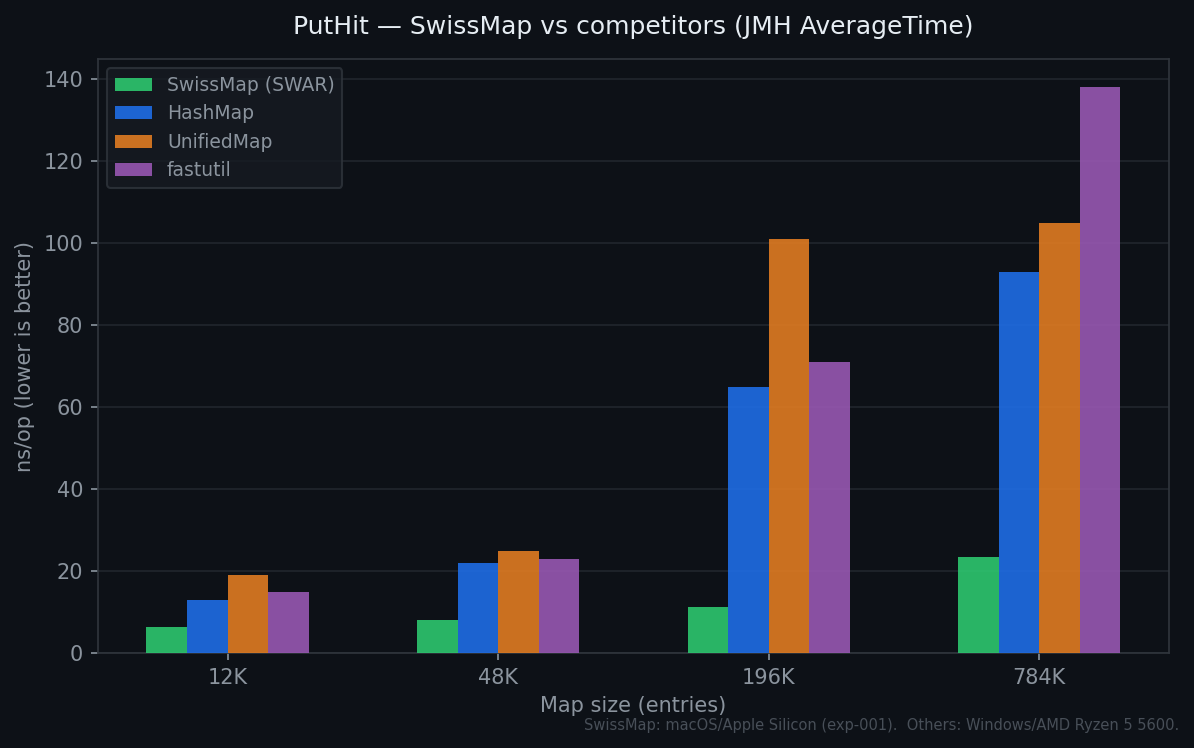
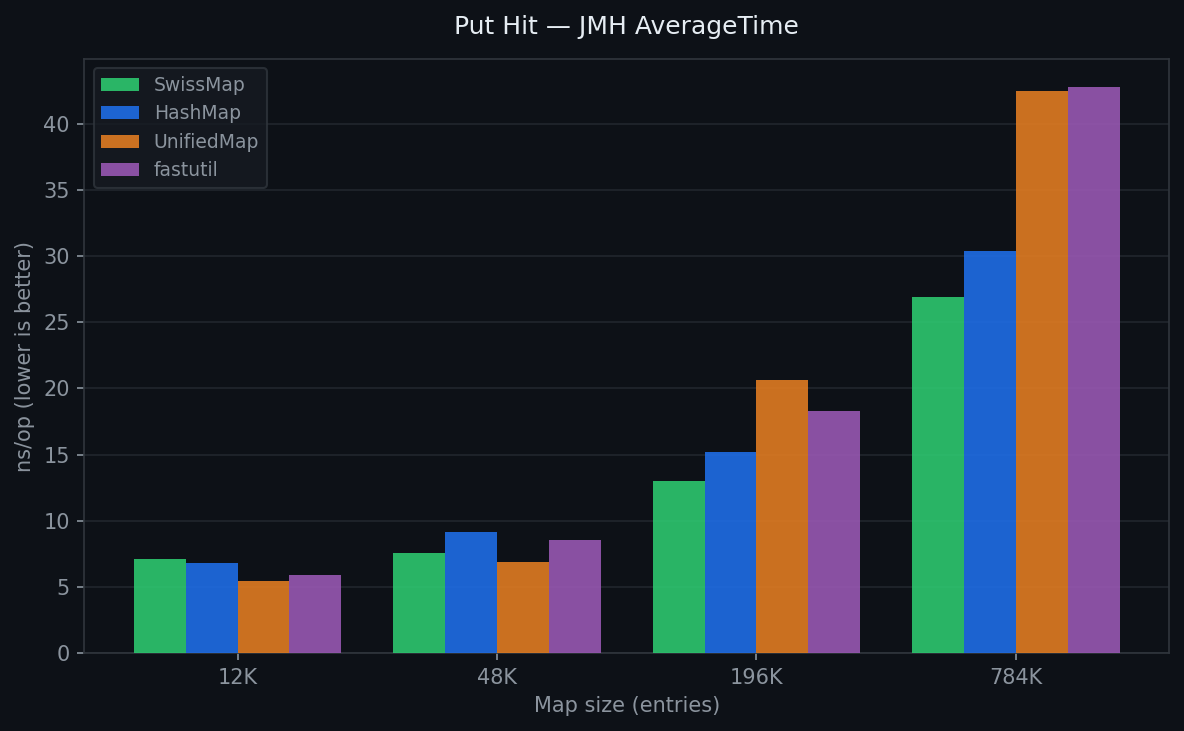
docs: regenerate benchmark charts with full competitor comparison on same hardware

diff --git a/README.md b/README.md
@@ -102,9 +102,8 @@ dependencies {
 </table>
 
 ## Benchmark (JMH, CPU ns/op)
-- `SwissMap` numbers: Eclipse Temurin JDK 21, macOS/Apple Silicon, `AverageTime` mode (exp-001 optimized).
-- `HashMap`, `UnifiedMap`, `fastutil` numbers: Eclipse Temurin JDK 21.0.9, Windows 11, AMD Ryzen 5 5600.
-- Hardware differs across implementations — use as directional reference, not an apples-to-apples comparison.
+- All benchmarks run on the same machine: Eclipse Temurin JDK 21, macOS/Apple Silicon, `AverageTime` mode, 3 forks.
+- SwissMap numbers reflect exp-001 optimizations.
 
 | put hit                                     | put miss                                      |
 |---------------------------------------------|-----------------------------------------------|
